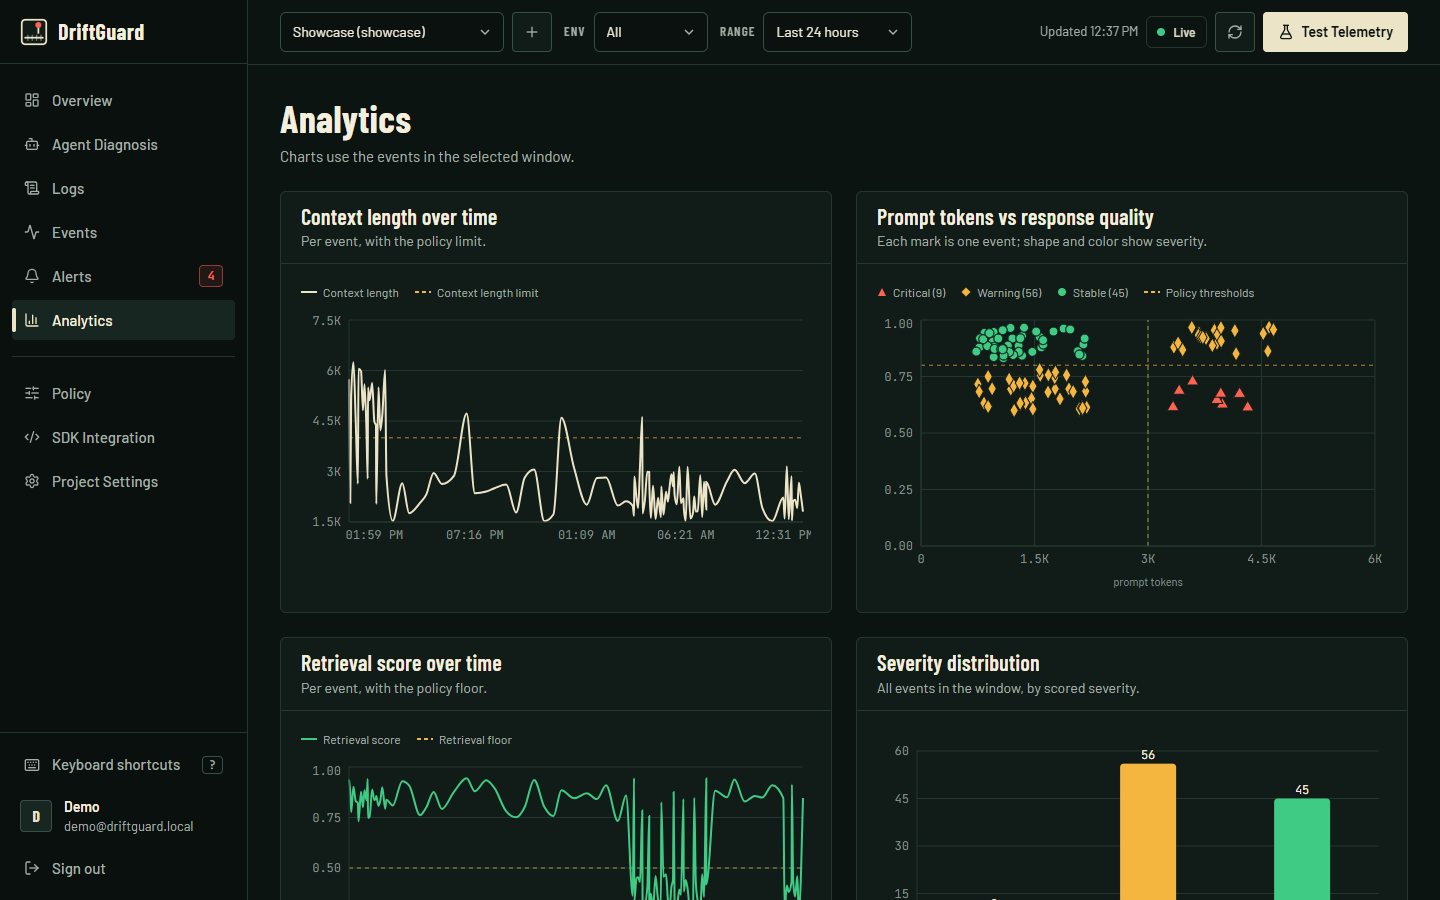
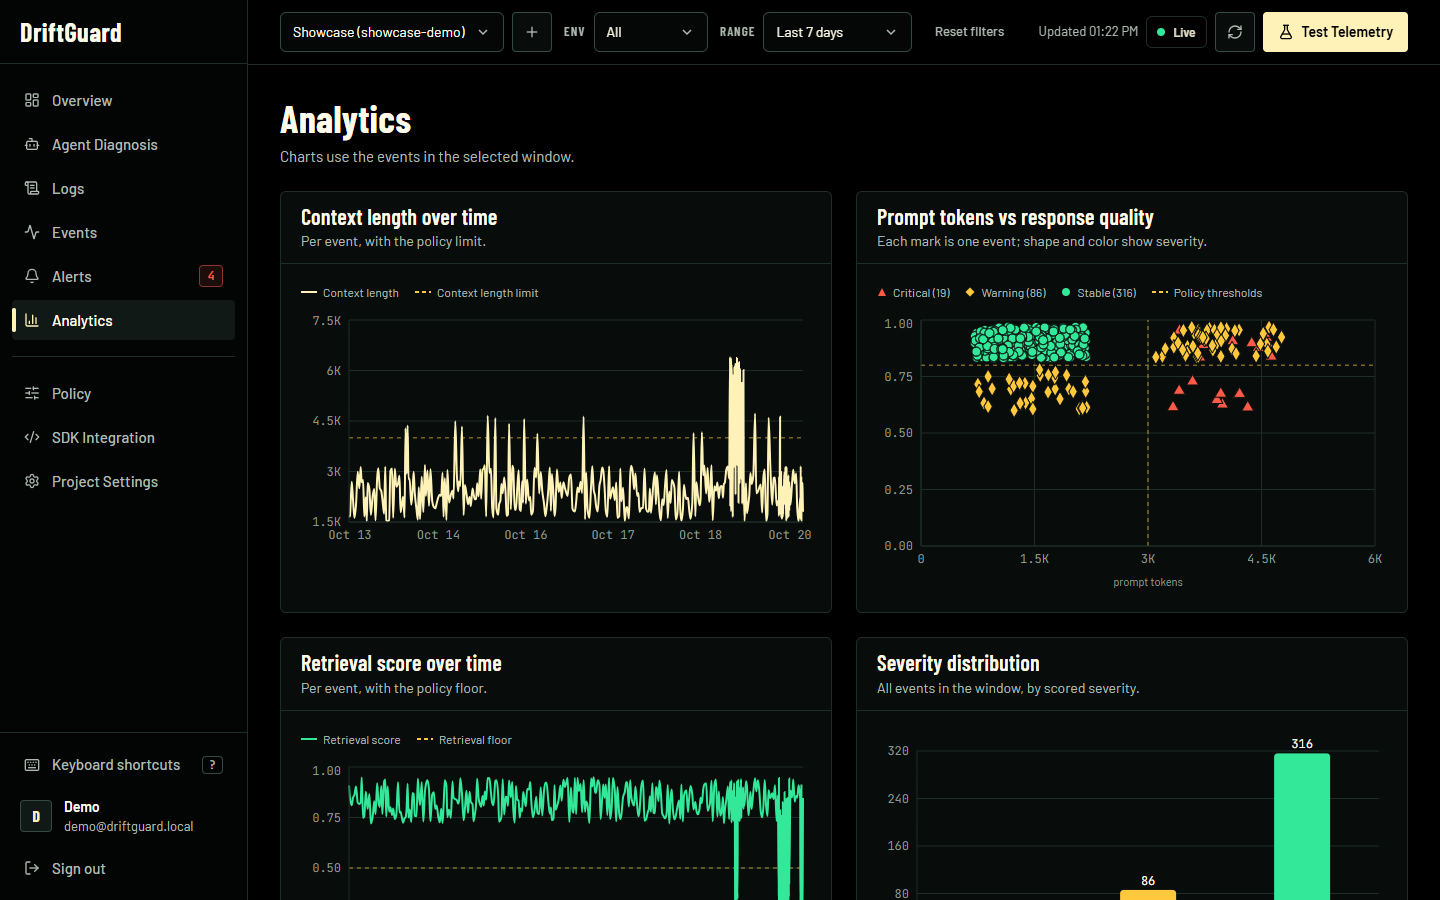
docs: refresh guides, screenshots and architecture diagram
Restyle the architecture diagram (SVG and PNG) to the new look and note the
dashboard's shortcuts and shared links. Retake every dashboard screenshot from a
seeded project with a week of data, and add Policy and shortcut-sheet images.
Update the dashboard guide (Agent Diagnosis instruments and track), architecture
page, concepts, demo outline, SETUP and quickstart (Env and Range names), root
README, and development guide (design files). Record the refresh in the
changelog and progress report.

diff --git a/docs/dashboard.md b/docs/dashboard.md
@@ -5,8 +5,9 @@ The dashboard is served at the root of your DriftGuard server
 question it answers, what each card and column means, and where the numbers
 come from.
 
-The screenshots use the **Showcase** sample project
-(`examples/seed_showcase.py`, last 7 days).
+The screenshots use a sample project filled by `examples/seed_showcase.py`
+(last 7 days). The same data is what you get from the steps in
+[SETUP.md](../SETUP.md).
 
 **One rule for the whole dashboard:** every number comes from the API.
 Nothing is estimated or filled in by the browser. A missing value shows as
@@ -77,6 +78,8 @@ have a dialog open.
 | `r` | Refresh data |
 | `?` | Show the shortcut list |
 
+![The keyboard shortcut sheet](images/dashboard-shortcuts.png)
+
 ## Overview
 
 ![Overview of the Showcase project](images/dashboard-overview.png)
@@ -145,17 +148,23 @@ rows Logs lists.
 This view replays each task's **tool calls** and finds the ones that are stuck.
 Prompts, answers and session events don't affect it; they're in Logs.
 
-| Card | Meaning |
+Three instruments sit across the top. A collapsed **All counts** list holds the
+rest.
+
+| Reading | Meaning |
 | --- | --- |
 | Blocked tasks | Tasks where one tool has failed at least *blocked after failures* times in a row (3 by default) and hasn't succeeded since. |
 | Failing tasks | A shorter run of failures in a row. |
-| Failures | All failed tool attempts. |
-| Repeated attempts | Failures right after a failure of the same tool: the agent retrying something that just failed. |
-| Redundant attempts | Successful calls that repeated an identical input that had already succeeded in the task. |
 | Wasted tokens | Tokens of failed attempts plus redundant ones. |
+| Failures *(All counts)* | All failed tool attempts. |
+| Repeated attempts *(All counts)* | Failures right after a failure of the same tool: the agent retrying something that just failed. |
+| Redundant attempts *(All counts)* | Successful calls that repeated an identical input that had already succeeded in the task. |
 
-**Most urgent** repeats the top task's diagnosis and recommendation. The
-recommendation depends on the error: timeouts, permissions, not found, rate
+**Most urgent** repeats the top task's diagnosis and recommendation, with its
+**track**: each tool the task used as a block section, in the order it was
+first used. The blocking tool is lit red under a signal and says how many
+failures in a row. Selecting a task in the table shows the same track at the top
+of its drawer. The recommendation depends on the error: timeouts, permissions, not found, rate
 limits and malformed input each get their own advice.
 
 **Tasks table**, most urgent first:
@@ -274,6 +283,8 @@ Charts over the latest 500 events in the window:
 - **Severity distribution** for the window.
 
 ## Policy
+
+![Policy, with what each threshold flags in the loaded data](images/dashboard-policy.png)
 
 The project's thresholds. Saving changes how **new** events are scored and how
 the diagnosis runs, on the server and in any SDK that calls `fetch_policy()`.

diff --git a/docs/demo.md b/docs/demo.md
@@ -86,7 +86,7 @@ It adds a week of sample data:
   holding the prompt, the answer, the task's duration and its tokens.
 
 Turn on content storage for the project first if you want Logs to show inputs
-and outputs. Set the time range to **Last 7 days** to see all of it.
+and outputs. Set **Range** to **Last 7 days** to see all of it.
 
 ## Presenting the project (10–15 minutes)
 
@@ -96,13 +96,17 @@ you start, with the **Showcase** project loaded and **Last 7 days** selected.
 | Min | Show | Say |
 | ---: | --- | --- |
 | 0–2 | [The architecture diagram](images/architecture.png) | The problem (quiet drift, stuck agents), and the three parts: sources, server, dashboard. |
-| 2–4 | **Overview** | Status, open alerts, tokens at stake, and the agent activity row. Every number is a query over stored events. |
+| 2–4 | **Overview** | The status plate (one lamp, one word), the track of the most urgent task, then the four instruments drawn against their floors. Every number is a query over stored events. |
 | 4–6 | **Agent Diagnosis** | A blocked task: which tool, how many tries, the wasted tokens and the advice. Open a task to show each attempt. |
 | 6–7 | **Alerts** | Agent alerts resolve themselves when the task recovers. Drift alerts carry a root cause and a fix. |
 | 7–9 | **Events** and **Analytics** | How one LLM call is scored: rules → risk → severity ([worked examples](concepts.md#how-a-telemetry-event-is-scored)). |
 | 9–11 | **Logs**, switching to the **Claude Code** project | This is real data: the Claude Code session that built the project, with each command, its duration and its tokens. |
 | 11–13 | Live: `demo.bat` or `live_demo.py` | Play steps 2–4. Show a drift alert popping up, then an agent blocking and recovering live. |
 | 13–15 | Questions | Limits: it sees only what's reported, it recommends rather than acts, and quality needs an evaluator. |
+
+Tip: press `?` for the keyboard shortcuts, and use `g` then a letter to jump
+between views without the mouse. Copy the address bar to send someone the same
+view with the same filters.
 
 For the explanations themselves, use [How DriftGuard works](concepts.md),
 which ends with a 60-second summary you can read out.

diff --git a/docs/architecture.md b/docs/architecture.md
@@ -118,7 +118,7 @@ enforces this.
 ```mermaid
 flowchart TB
   Session["state/session.tsx<br/>sign-in, token in localStorage"]
-  Workspace["state/workspace.tsx<br/>project, environment, time range,<br/>summary, refresh keys"]
+  Workspace["state/workspace.tsx<br/>project, environment, time range<br/>(also in the URL), summary, refresh keys"]
   Realtime["lib/useRealtime.ts<br/>WebSocket: alert · activity"]
   Queries["state/queries.ts<br/>per-view data hooks"]
   API["api.ts<br/>typed fetch client"]
@@ -128,7 +128,11 @@ flowchart TB
   Queries --> Views
 ```
 
-- **Routing** is by URL hash (`#/logs`), so a reload keeps the current view.
+- **Routing** is by URL hash with a query (`#/logs?env=prod&range=7d&project=showcase`).
+  A reload keeps the view, and a copied link opens the same view with the same
+  filters and project. `lib/route.ts` parses and writes it.
+- **Shortcuts.** `lib/shortcuts.ts` listens for `g` then a letter, `/`, `r`
+  and `?`, and ignores keys while you type or have a dialog open.
 - **State.** The workspace holds the selected project and filters, which are
   remembered in `localStorage`, and the Overview summary. Each view loads its
   own data through `state/queries.ts`.
@@ -147,7 +151,7 @@ flowchart TB
 | Events | `GET /projects/{id}/events` (100 at a time) |
 | Analytics | `GET /projects/{id}/events?limit=500`, `…/summary` |
 | Alerts | `GET`/`POST`/`PATCH /projects/{id}/alerts` |
-| Policy | `GET`/`PUT /projects/{id}/policy` |
+| Policy | `GET`/`PUT /projects/{id}/policy`, and for the impact preview `…/events?limit=500` and `…/agent-diagnosis` |
 | Project Settings | `PATCH /projects/{id}`, `POST /projects/{id}/api-key`, `DELETE /projects/{id}` |
 
 ## Flows
@@ -300,7 +304,7 @@ and `wasted_tokens` keep working.
 
 ## Agent activity totals
 
-The Overview's *Agent activity* row is computed in SQL over the same rows that
+The Overview's *Tool failure rate* instrument and its *All readings* list (tool calls, tasks, tokens used, average tool duration, agent events) are computed in SQL over the same rows that
 Logs lists, for the selected environment and time range:
 
 - **tool calls** and **failed tool calls**: rows of kind `tool_call`, with

diff --git a/docs/quickstart.md b/docs/quickstart.md
@@ -146,7 +146,7 @@ python examples/seed_showcase.py --api-key dg_live_... --project-id showcase
 This adds a week of realistic traffic. You get about 420 LLM requests over
 three environments, with three drift episodes, and five agents whose tasks are
 blocked, failing, recovered and healthy. Alerts and full Logs come with it.
-Set the time range to **Last 7 days**. To also see inputs and outputs in Logs,
+Set **Range** to **Last 7 days**. To also see inputs and outputs in Logs,
 turn on **Content storage** in Project Settings **before** running it.
 
 ### 2. Live demo script (a story in four steps)
@@ -231,7 +231,7 @@ raw HTTP are covered in [agent-integration.md](agent-integration.md).
 | `/` says "The dashboard has not been built" | Run `cd frontend && npm ci && npm run build`, then reload. |
 | `address already in use` on port 8000 | A server is already running. Use it, stop it, or start this one with `--port 8001`. |
 | The project picker doesn't list your project | You're signed in as a different account. Projects belong to the account that created them. Sign out and back in as the owner. |
-| Data was sent but the dashboard is empty | Check the **time range** and **environment** filters in the header, then click **Refresh**. The sample data needs **Last 7 days**. |
+| Data was sent but the dashboard is empty | Check the **Range** and **Env** filters in the header, then click **Refresh**. The sample data needs **Last 7 days**. |
 | Retrieval or quality shows "—" or "Not reported by this source" | The source doesn't send that metric. Claude Code has no retrieval step and no answer grader, so DriftGuard leaves it blank instead of guessing. |
 | Logs shows no inputs or outputs | Content storage is off. Turn it on in Project Settings. The sender must also allow it (`capture_content`). |
 | `429 Too Many Requests` when signing in | The login limit is 10 per minute per IP. Wait a minute. |

diff --git a/SETUP.md b/SETUP.md
@@ -138,7 +138,7 @@ In a **second** terminal, activate `.venv` (step 3), then run:
 python examples/seed_showcase.py --api-key dg_live_PASTE_YOUR_KEY --project-id showcase
 ```
 
-Back in the browser, set the time range to **Last 7 days**. Every view now
+Back in the browser, set **Range** (at the top) to **Last 7 days**. Every view now
 has data: drift episodes, blocked and recovered agent tasks, alerts and full
 logs.
 
@@ -243,7 +243,7 @@ The full developer guide is [docs/development.md](docs/development.md).
 | `driftguard-server` is not recognized | `.venv` isn't active. Activate it (step 3). |
 | `/` says "The dashboard has not been built" | Run step 4. |
 | `address already in use` on port 8000 | A server is already running. Stop it, or use `--port 8001` and open that port instead. |
-| The dashboard is empty after seeding | Set the time range to **Last 7 days**, check the environment is **All**, and click **Refresh**. |
+| The dashboard is empty after seeding | Set **Range** to **Last 7 days**, check **Env** is **All**, and click **Refresh**. |
 | My project isn't in the picker | You're signed in as a different account. Projects belong to the account that created them. |
 | `429 Too Many Requests` when signing in | The limit is 10 sign-ins per minute. Wait a minute. |
 | `npm ci` fails | Check `node --version` is 22. Delete `frontend/node_modules` and try again. |

diff --git a/docs/development.md b/docs/development.md
@@ -102,3 +102,21 @@ cd frontend && npm run lint && npm run build
   in `CHANGELOG.md` in the same change.
 - Only mark something done in `docs/roadmap.md` once the code path is wired up
   and tested.
+
+## Design files
+
+The dashboard's look is recorded in files you should read before changing it.
+
+| File | What it holds |
+| --- | --- |
+| [PRODUCT.md](../PRODUCT.md) | Who the product is for, what it does, and constraints future work must keep |
+| [DESIGN.md](../DESIGN.md) | Tokens and components, written from the built code |
+| [design-system.md](design-system.md) | The same system in plain language |
+| `.impeccable/design.json` | Machine-readable design system |
+| `.impeccable/surfaces/`, `.impeccable/critique/` | The recorded design direction and the latest critique. Committed. |
+| `.impeccable/review/`, `.impeccable/questions/` | Working screenshots and logs. Ignored by git. |
+
+Colours, fonts and motion are `@theme` tokens in `frontend/src/index.css`.
+Change them there, not in components. After a visual change, retake the images
+in `docs/images/` (see [docs/dashboard.md](dashboard.md)) and update the design
+files above.

diff --git a/docs/progress.md b/docs/progress.md
@@ -100,6 +100,7 @@ transcript, because hooks don't report them.
 | **How DriftGuard works** (`docs/concepts.md`), the architecture diagram as an image, and a dashboard guide with screenshots | Merged with PR #9 |
 | **`SETUP.md`**: a step-by-step guide from a fresh laptop to a running DriftGuard with sample data, on Windows, macOS and Linux | Pushed on `docs/team-setup`. Not merged. |
 | **Showcase seeder** (`examples/seed_showcase.py`): a week of varied sample data so every view has something to show | Merged with PR #9 |
+| **Documentation refresh (2026-10-20):** the architecture diagram (SVG and PNG) restyled to the new look, all dashboard screenshots retaken from a seeded project with a week of data, new Policy and shortcut screenshots, and the dashboard guide, demo outline, setup guides, architecture page and development guide brought in line with the redesign | On `feature/signal-box-redesign` |
 
 ## Dashboard redesign (branch `feature/signal-box-redesign`, 2026-10-20)
 

diff --git a/CHANGELOG.md b/CHANGELOG.md
@@ -122,6 +122,12 @@ All notable changes to DriftGuard are recorded here. The format follows
   Existing agent events become `tool_call` events.
 
 ### Documentation
+- **Documentation refresh.** The architecture diagram is restyled to the new
+  look (SVG and PNG) and notes the dashboard's shortcuts and shared links. The
+  dashboard guide, demo outline, setup guides and architecture page use the new
+  names (**Env**, **Range**, instruments, track), and every screenshot is
+  retaken with a full week of data, plus new ones for Policy and the shortcut
+  sheet. `docs/development.md` lists the design files.
 - **`PRODUCT.md`** records the product's users, purpose, positioning and
   constraints for design work.
 - **Design system** (`docs/design-system.md`) rewritten for the signal box

diff --git a/docs/concepts.md b/docs/concepts.md
@@ -40,7 +40,7 @@ application (or an integration) sends.
 | **Carries** | `prompt_tokens`, `context_length`, `retrieval_score`, `response_quality` | task, tool, status, error, attempt, duration, tokens, optionally the input and output |
 | **Used for** | Drift scoring and drift alerts | Agent diagnosis, agent alerts, Logs |
 | **Sent to** | `POST /events/{project}` | `POST /agent-events/{project}` |
-| **Dashboard views** | Overview, Events, Analytics | Agent Diagnosis, Logs, Overview's *Agent activity* row |
+| **Dashboard views** | Overview, Events, Analytics | Agent Diagnosis, Logs, Overview's *Tool failure rate* and *All readings* |
 
 Both are sent with the **project API key** and stored in the same database.
 

diff --git a/README.md b/README.md
@@ -26,6 +26,9 @@ quality.
 - **Drop-in adapters.** A `@driftguard_tool` decorator, MCP session
   instrumentation, token extraction from OpenAI, Anthropic, and Gemini
   responses, and a no-code [Claude Code hook](integrations/claude_code/README.md).
+- **Fast to operate.** A status plate and a track diagram tell you what is
+  blocked first. Keyboard shortcuts, links that carry your filters, bulk
+  resolve, and a Policy page that shows what each threshold would flag.
 - **Self-hostable.** A FastAPI server, a React dashboard, and SQLite or
   PostgreSQL, with Redis when you scale out. One `docker compose up`.
 
